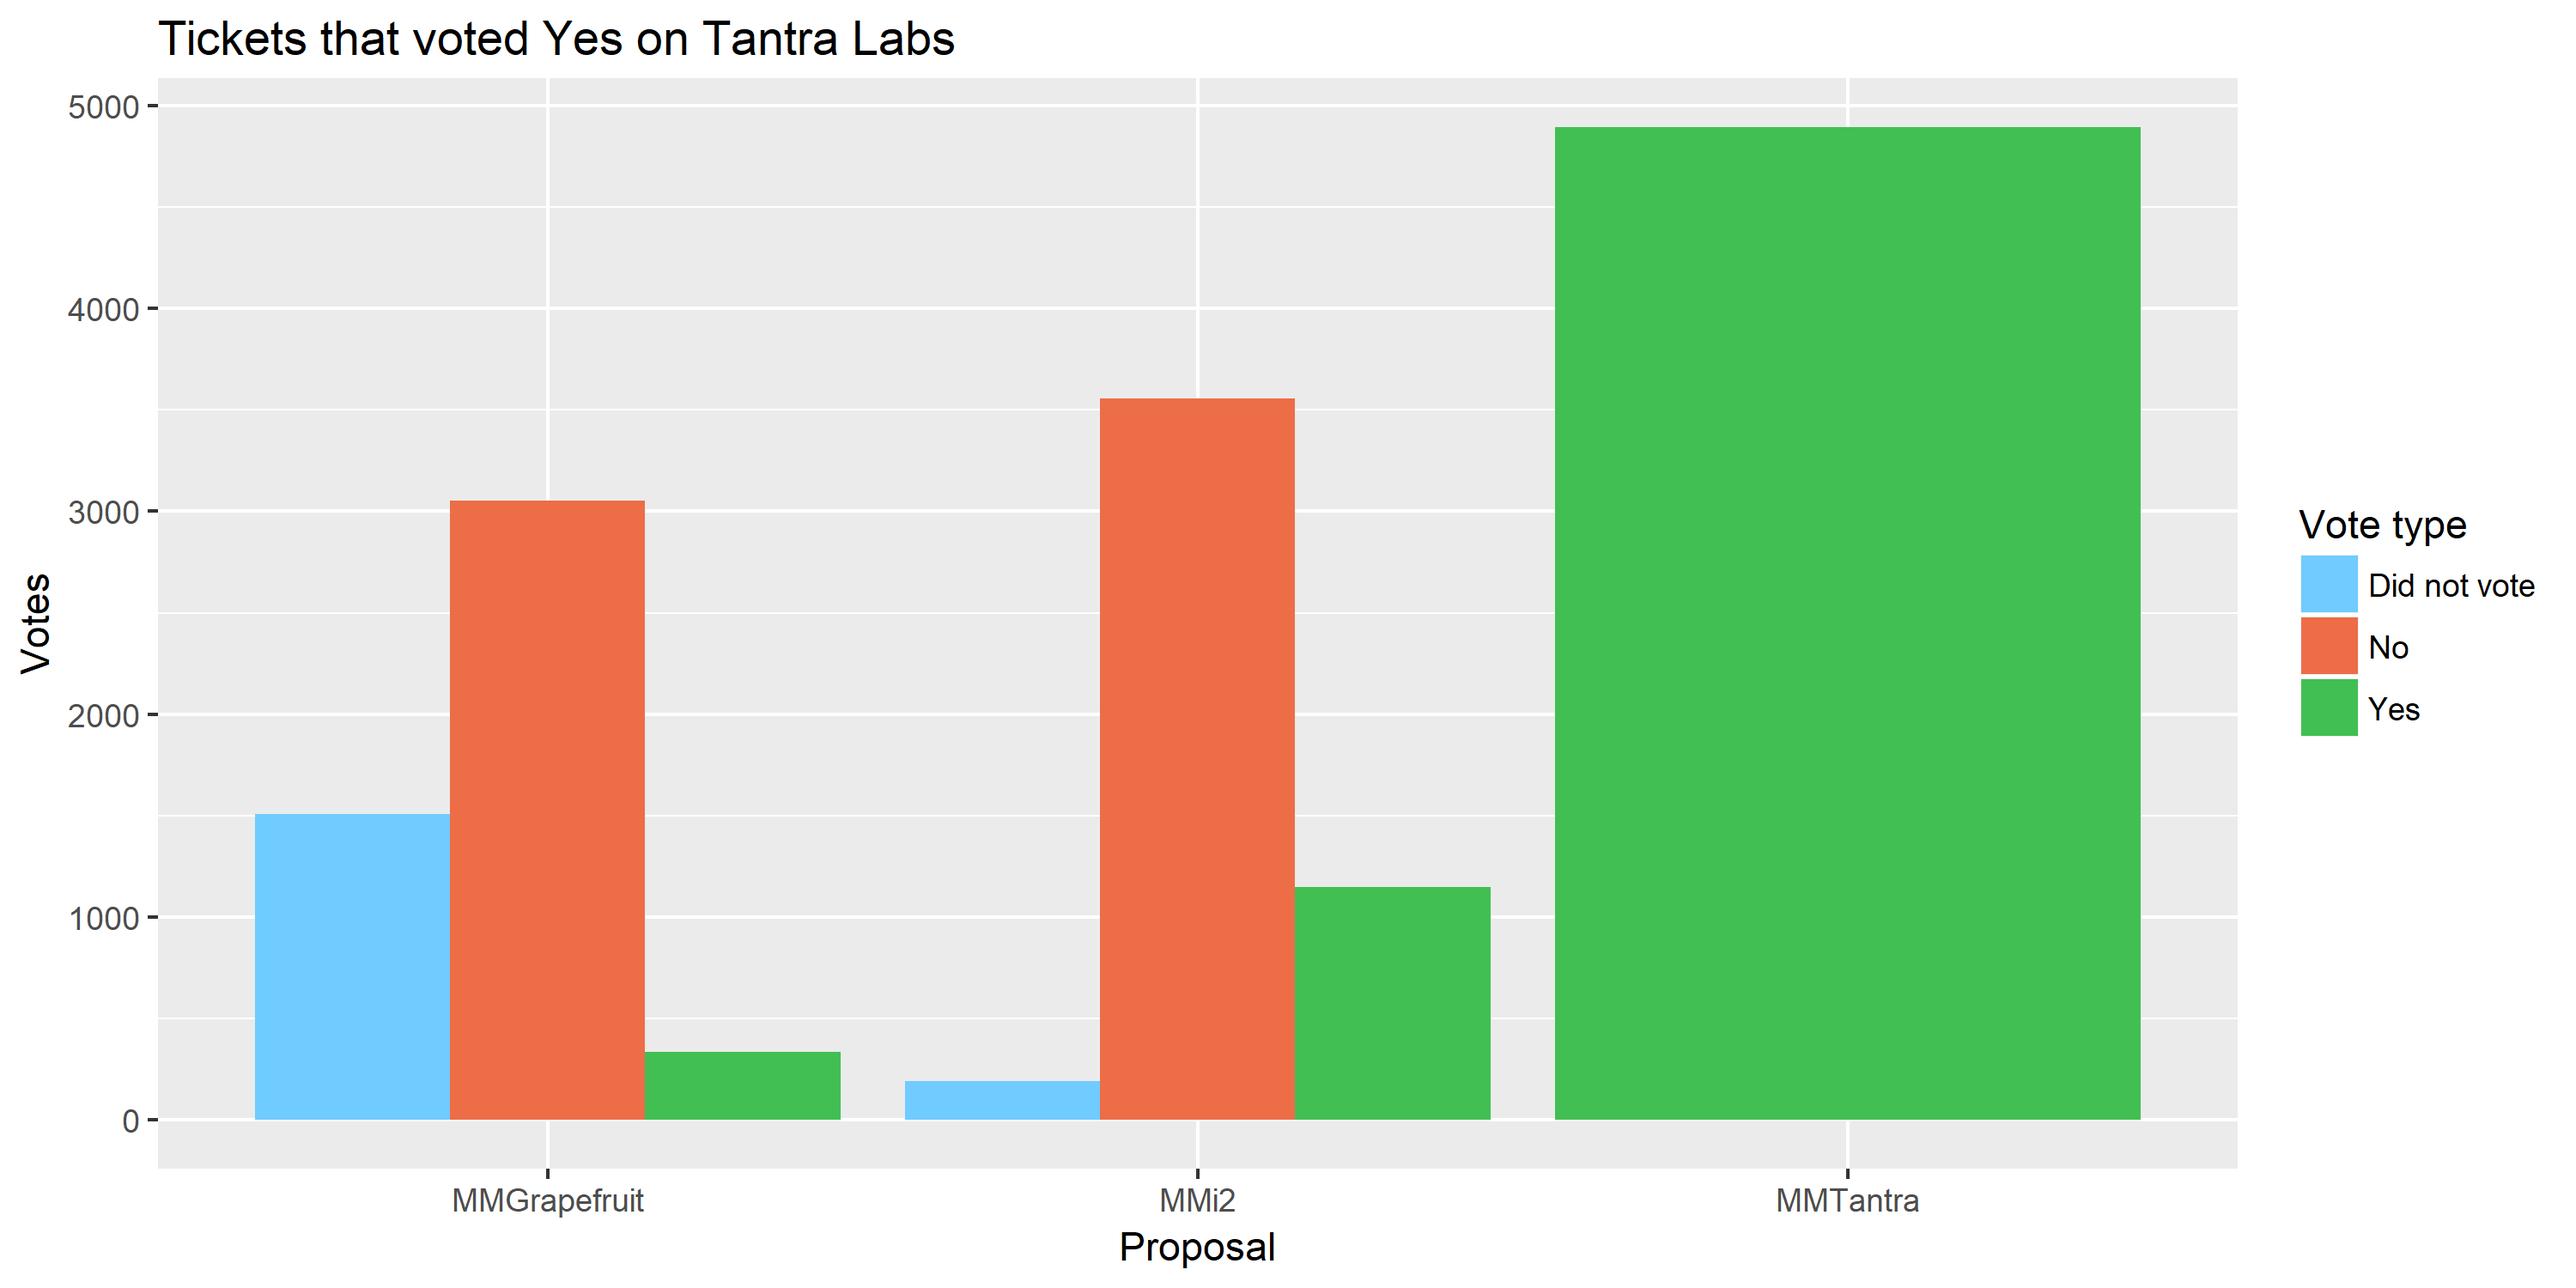
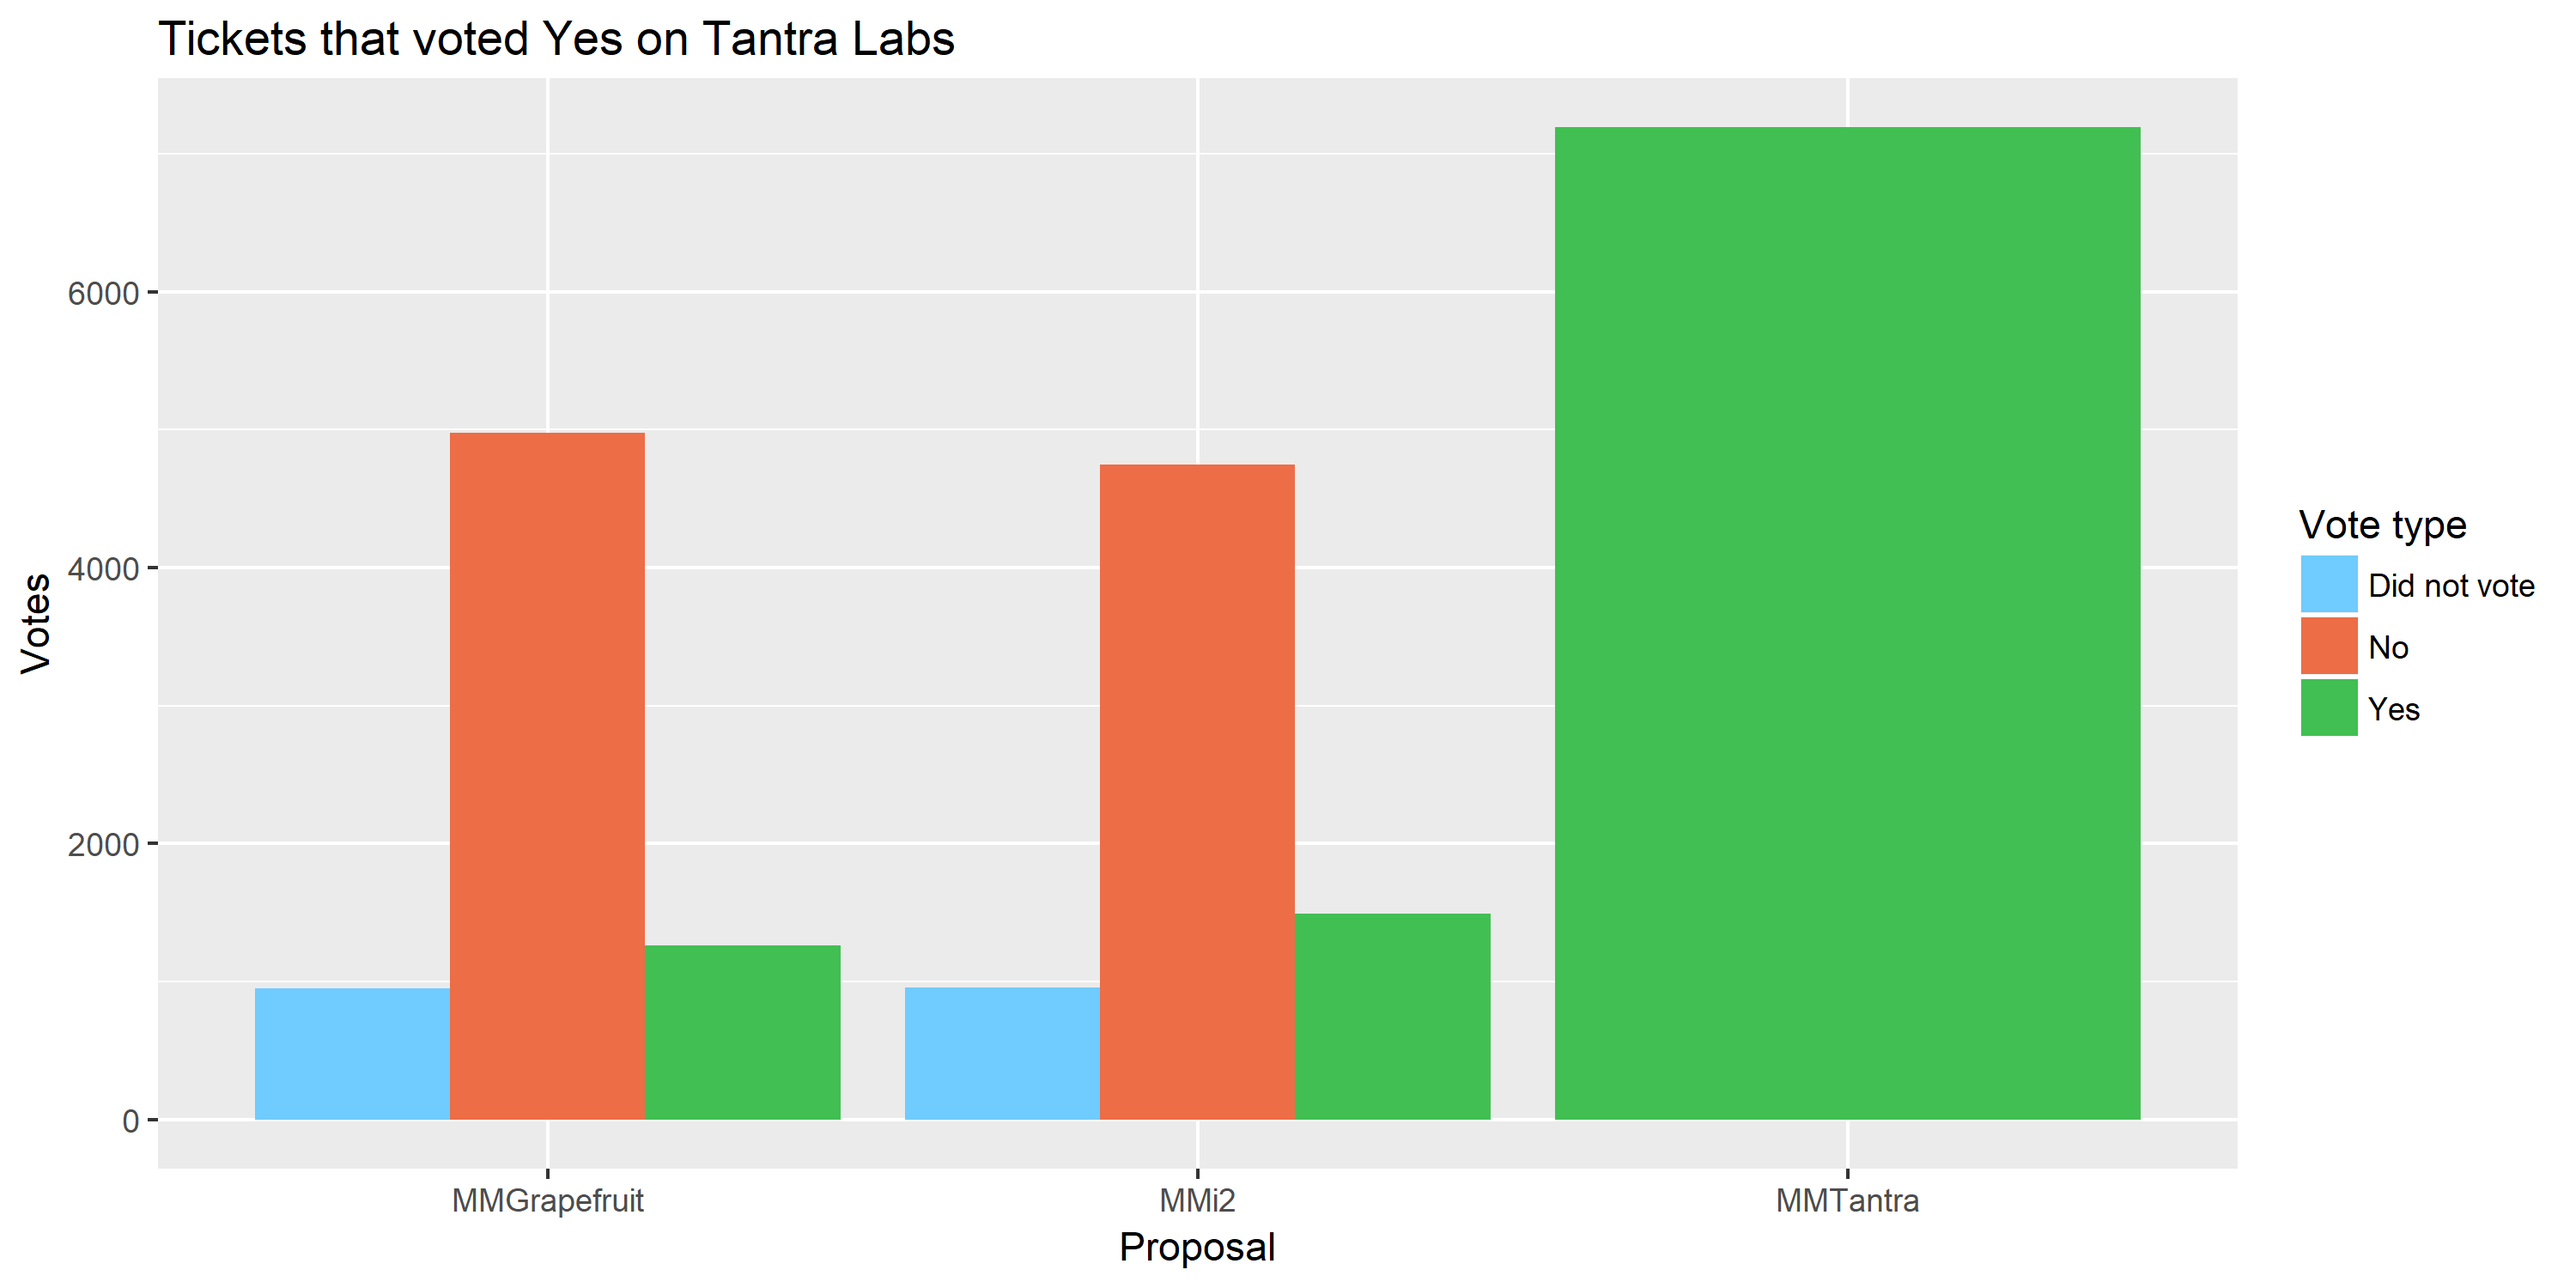
update mm voting analysis to final state

diff --git a/analysis/voting/market-maker-proposal-voting-interim-analysis.md b/analysis/voting/market-maker-proposal-voting-interim-analysis.md
@@ -1,6 +1,4 @@
-# Market Maker proposal voting - interim analysis
-
-This version uses data from this [commit](https://github.com/decred-proposals/mainnet/commit/acbfb3287ab52e97777ea2638b2efd1eaa6c477a), 1600 UTC on 2019-09-08, i2 Trading is on 57% approval, Grapefruit on 42% and Tantra on 52%. This document will be updated as the voting period progresses.
+# Market Maker proposal voting - final analysis
 
 This analysis considers the voting on market maker proposals, looking at the number of proposals each participating ticket is voting on and at patterns within that voting. The aim is to see if there are any differentiating features between the supporters of the various proposals.
 
@@ -8,9 +6,9 @@ This analysis considers the voting on market maker proposals, looking at the num
 
 This bar chart shows the number of tickets that have voted on 1, 2 or 3 of the proposals so far. 
 
-353 tickets (3.15%) have voted No on all proposals.
+521 tickets (2.89%) have voted No on all proposals.
 
-153 tickets (1.36%) have voted Yes on all proposals.
+331 tickets (1.83%) have voted Yes on all proposals.
 
 I have also looked at the other votes of the set of tickets that votes Yes on each proposal - i.e. the first graph shows how the tickets that voted Yes for i2 Trading voted (or not) on the other proposals. 
 
@@ -20,17 +18,22 @@ Among tickets that votes Yes on i2, there is a fairly even split between Yes/No/
 
 ![Tickets that voted Yes on Tantra Labs](img/mm/tickets-voting-yes-on-tantra.png)
 
-Virtually all of the tickets that voted Yes on Tantra also voted on i2, with more voting No than Yes. Most Tantra-supporting tickets voted No on Grapefruit, but there are still 1,500 undecided.
+Virtually all of the tickets that voted Yes on Tantra also voted on i2 and Tantra, with more voting No than Yes. 
 
 ![Tickets that voted Yes on Grapefruit Trading](img/mm/tickets-voting-yes-on-grapefruit.png)
 
-Grapefruit supporters are mostly voting Yes on i2 and No on Tantra.
+Grapefruit supporters mostly voted Yes on i2 and No on Tantra.
 
 I also looked at the previous voting of the tickets that voted Yes to each proposal. For this I am using the number of previous proposals (not one of these 3 proposals) that the ticket voted on as an indicator of how involved that ticket has been in Decred's governance. Tickets of different ages will have had different numbers of opportunities to vote on proposals prior to this, but when averaging over thousands of tickets this should balance out.
 
-The tickets that voted Yes to Grapefruit had voted on a mean 1.94 proposals previously.
+The tickets that voted Yes to Grapefruit had voted on a mean 1.86 proposals previously.
 
-The tickets that voted Yes to i2 Trading had voted on a mean 1.51 proposals previously.
+The tickets that voted Yes to i2 Trading had voted on a mean 1.42 proposals previously.
 
-The tickets that voted Yes to Tantra Labs had voted on a mean 1.2 proposals previously.
+The tickets that voted Yes to Tantra Labs had voted on a mean 1.02 proposals previously.
 
+Here's how the votes came in over time:
+
+![Market Maker proposal voting over time](img/mm/mm-proposal-voting-over-time.png)
+
+You can see charts like this for any specific proposal on [dcrdata](https://explorer.dcrdata.org/proposals), I included this to show all 3 proposal votes in one graph.
